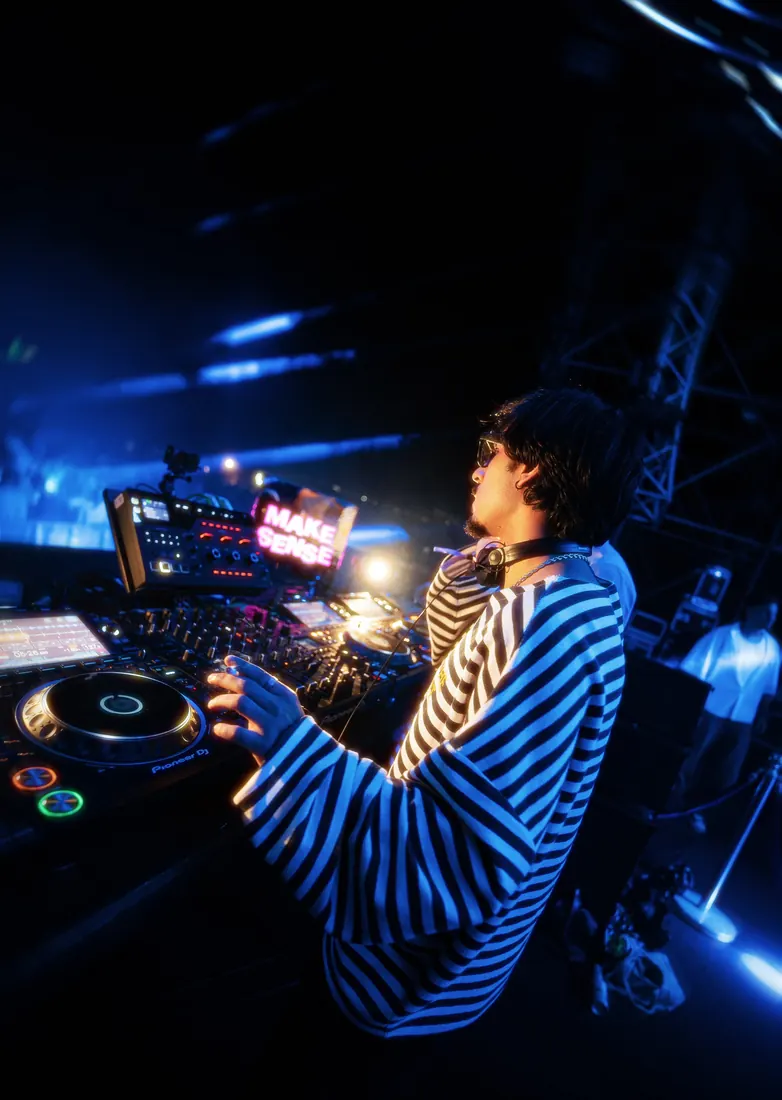
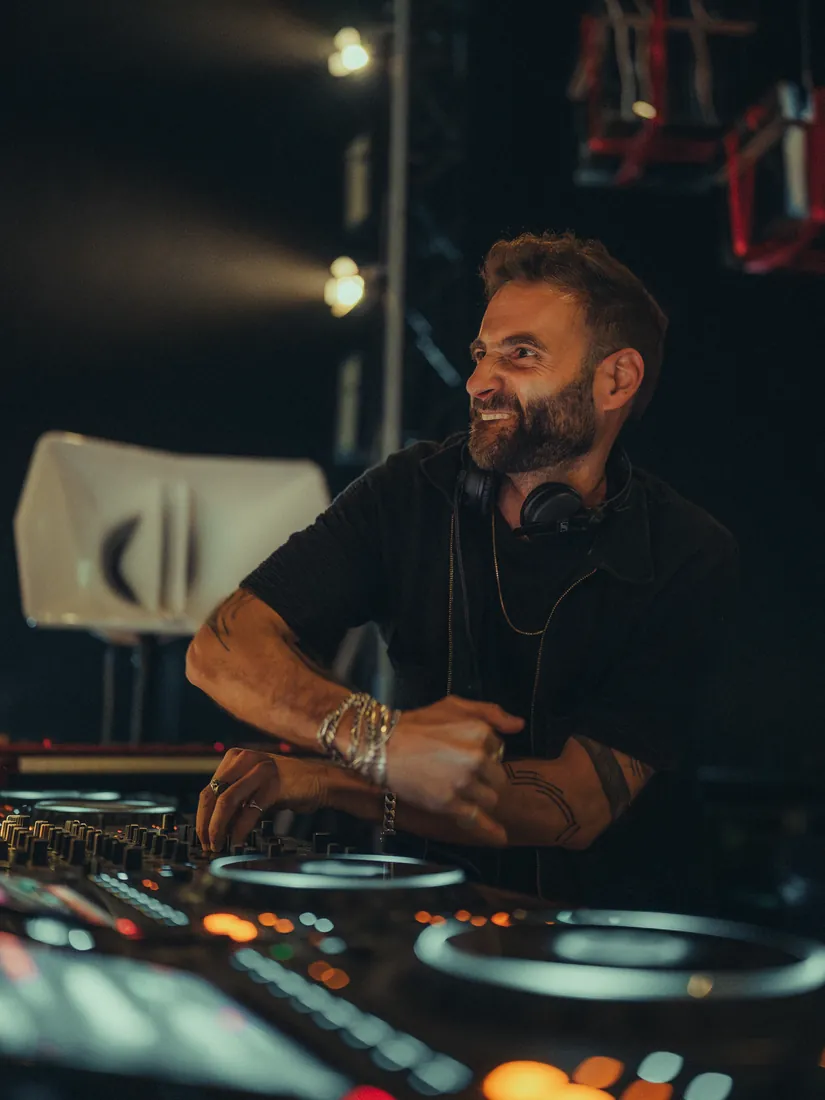
Artist portraits: keep the 3:4 frame on phones, frame faces, replace the cropped portrait

diff --git a/connection/index.html b/connection/index.html
@@ -261,11 +261,11 @@
         <p class="tag reveal">Music / Community</p>
         <h2 class="display h-xl" data-split>The artists</h2>
         <div class="portraits" aria-hidden="true">
-          <img src="media/artist-hands.webp" alt="" loading="lazy" width="782" height="1100">
-          <img src="media/artist-day.webp" alt="" loading="lazy" width="782" height="1100">
-          <img src="media/artist-blue.webp" alt="" loading="lazy" width="782" height="1100">
-          <img src="media/artist-red.webp" alt="" loading="lazy" width="782" height="1100">
-          <img src="media/artist-cap.webp" alt="" loading="lazy" width="782" height="1100">
+          <img src="media/artist-hands.webp" alt="" loading="lazy" width="782" height="1043">
+          <img src="media/artist-day.webp" alt="" loading="lazy" width="782" height="1043">
+          <img src="media/artist-blue.webp" alt="" loading="lazy" width="782" height="1043">
+          <img src="media/artist-red.webp" alt="" loading="lazy" width="782" height="1043">
+          <img src="media/artist-cap.webp" alt="" loading="lazy" width="782" height="1043">
         </div>
         <ul class="artist-wall" id="artistWall"></ul>
       </div>

diff --git a/connection/styles.css b/connection/styles.css
@@ -286,7 +286,8 @@ p { color: var(--cream-dim); margin: 0 0 1.1em; }
 
 /* artist portraits */
 .portraits { display: grid; grid-template-columns: repeat(5, 1fr); gap: 10px; margin-top: clamp(40px, 5vw, 64px); }
-.portraits img { width: 100%; aspect-ratio: 3 / 4; object-fit: cover; border-radius: 6px; filter: grayscale(1) contrast(1.1); transition: filter .6s var(--ease); }
+.portraits { align-items: start; }
+.portraits img { width: 100%; height: auto; aspect-ratio: 3 / 4; align-self: start; object-fit: cover; object-position: 50% 25%; border-radius: 6px; filter: grayscale(1) contrast(1.1); transition: filter .6s var(--ease); }
 .portraits img:hover { filter: none; }
 
 /* ---------- reveal ---------- */
